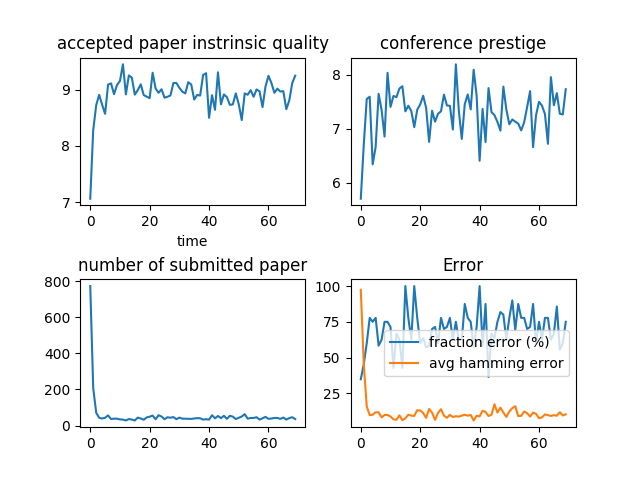
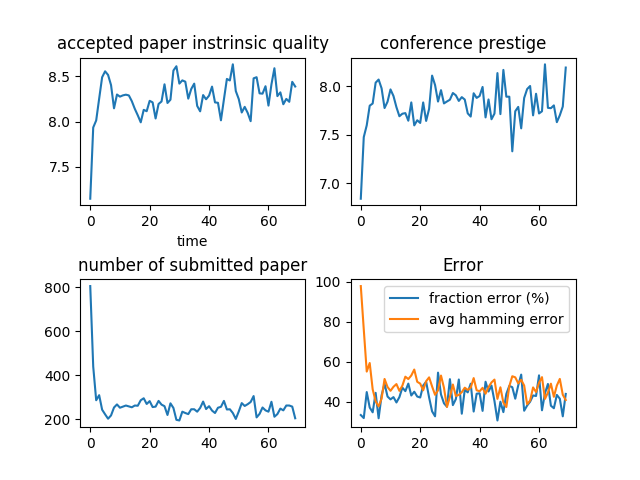
c.reward and belief and add plots

diff --git a/Agent/conference.py b/Agent/conference.py
@@ -58,6 +58,9 @@ class Conference:
         decide the acc_papers and the rej_papers
         the middle set are randomly accepted
         """
+        peer_review_results = list(agg_review_map.values())
+        if not peer_review_results:
+            return [], []
         cutoff = np.percentile(list(agg_review_map.values()), (1 - self.ar) * 100)
         middle_set = []
         acc_papers = []
@@ -97,21 +100,26 @@ class Conference:
 
     def update_prestige(self):
         """return the conference prestige"""
-        self.prestige = -alpha * self.ar + gamma * np.mean([p.author.resources for p in self.acc_papers])
+        rewd = float(self.reward) / self.prestige
+        self.prestige = max(0.001, -alpha * self.ar + gamma * np.mean([p.author.resources for p in self.acc_papers]))
+        self.reward = self.prestige * rewd
 
     def calc_pq(self):
         """return the acc papers true quality"""
-        return np.mean([p.pq for p in self.acc_papers])
+        return np.mean([p.pq for p in self.acc_papers]) if self.acc_papers else 0.
 
     def update_ferror(self):
         """ fraction of paper that get accepted while it shouldn't have """
         true_acc, _ = self.decide(self.receive_papers)
-        c_acc = set(self.acc_papers)
-        correct = 0
-        for p in true_acc:
-            if p in c_acc:
-                correct += 1
-        self.ferror = 100 * (1 - correct / len(true_acc))
+        if true_acc:
+            c_acc = set(self.acc_papers)
+            correct = 0
+            for p in true_acc:
+                if p in c_acc:
+                    correct += 1
+            self.ferror = 100 * (1 - correct / len(true_acc))
+        else:
+            self.ferror = 0.
 
     def update_herror(self):
         """ avg hamming distance error"""
@@ -119,4 +127,4 @@ class Conference:
                                                                  reverse=True))}
         actual_order = {p: r + 1 for r, (p, q) in enumerate(sorted(self.agg_review_map.items(), key=lambda item: item[1],
                                                                    reverse=True))}
-        self.herror = np.mean([abs(true_order[p] - actual_order[p]) for p in true_order])
+        self.herror = np.mean([abs(true_order[p] - actual_order[p]) for p in true_order]) if true_order else 0.

diff --git a/Agent/scientist.py b/Agent/scientist.py
@@ -50,7 +50,7 @@ class Scientist:
             conf_avg_score = np.mean([self.review(p) for p in conf.acc_papers])
         else:
             return 1. if np.random.uniform() >= init_belief_pecent else 0.
-        return 1. / (1 + math.exp(-my_score + conf_avg_score))
+        return 1. / (1 + belif_c * math.exp(-my_score + conf_avg_score))
 
     def submit(self, conf: Conference):
         """
